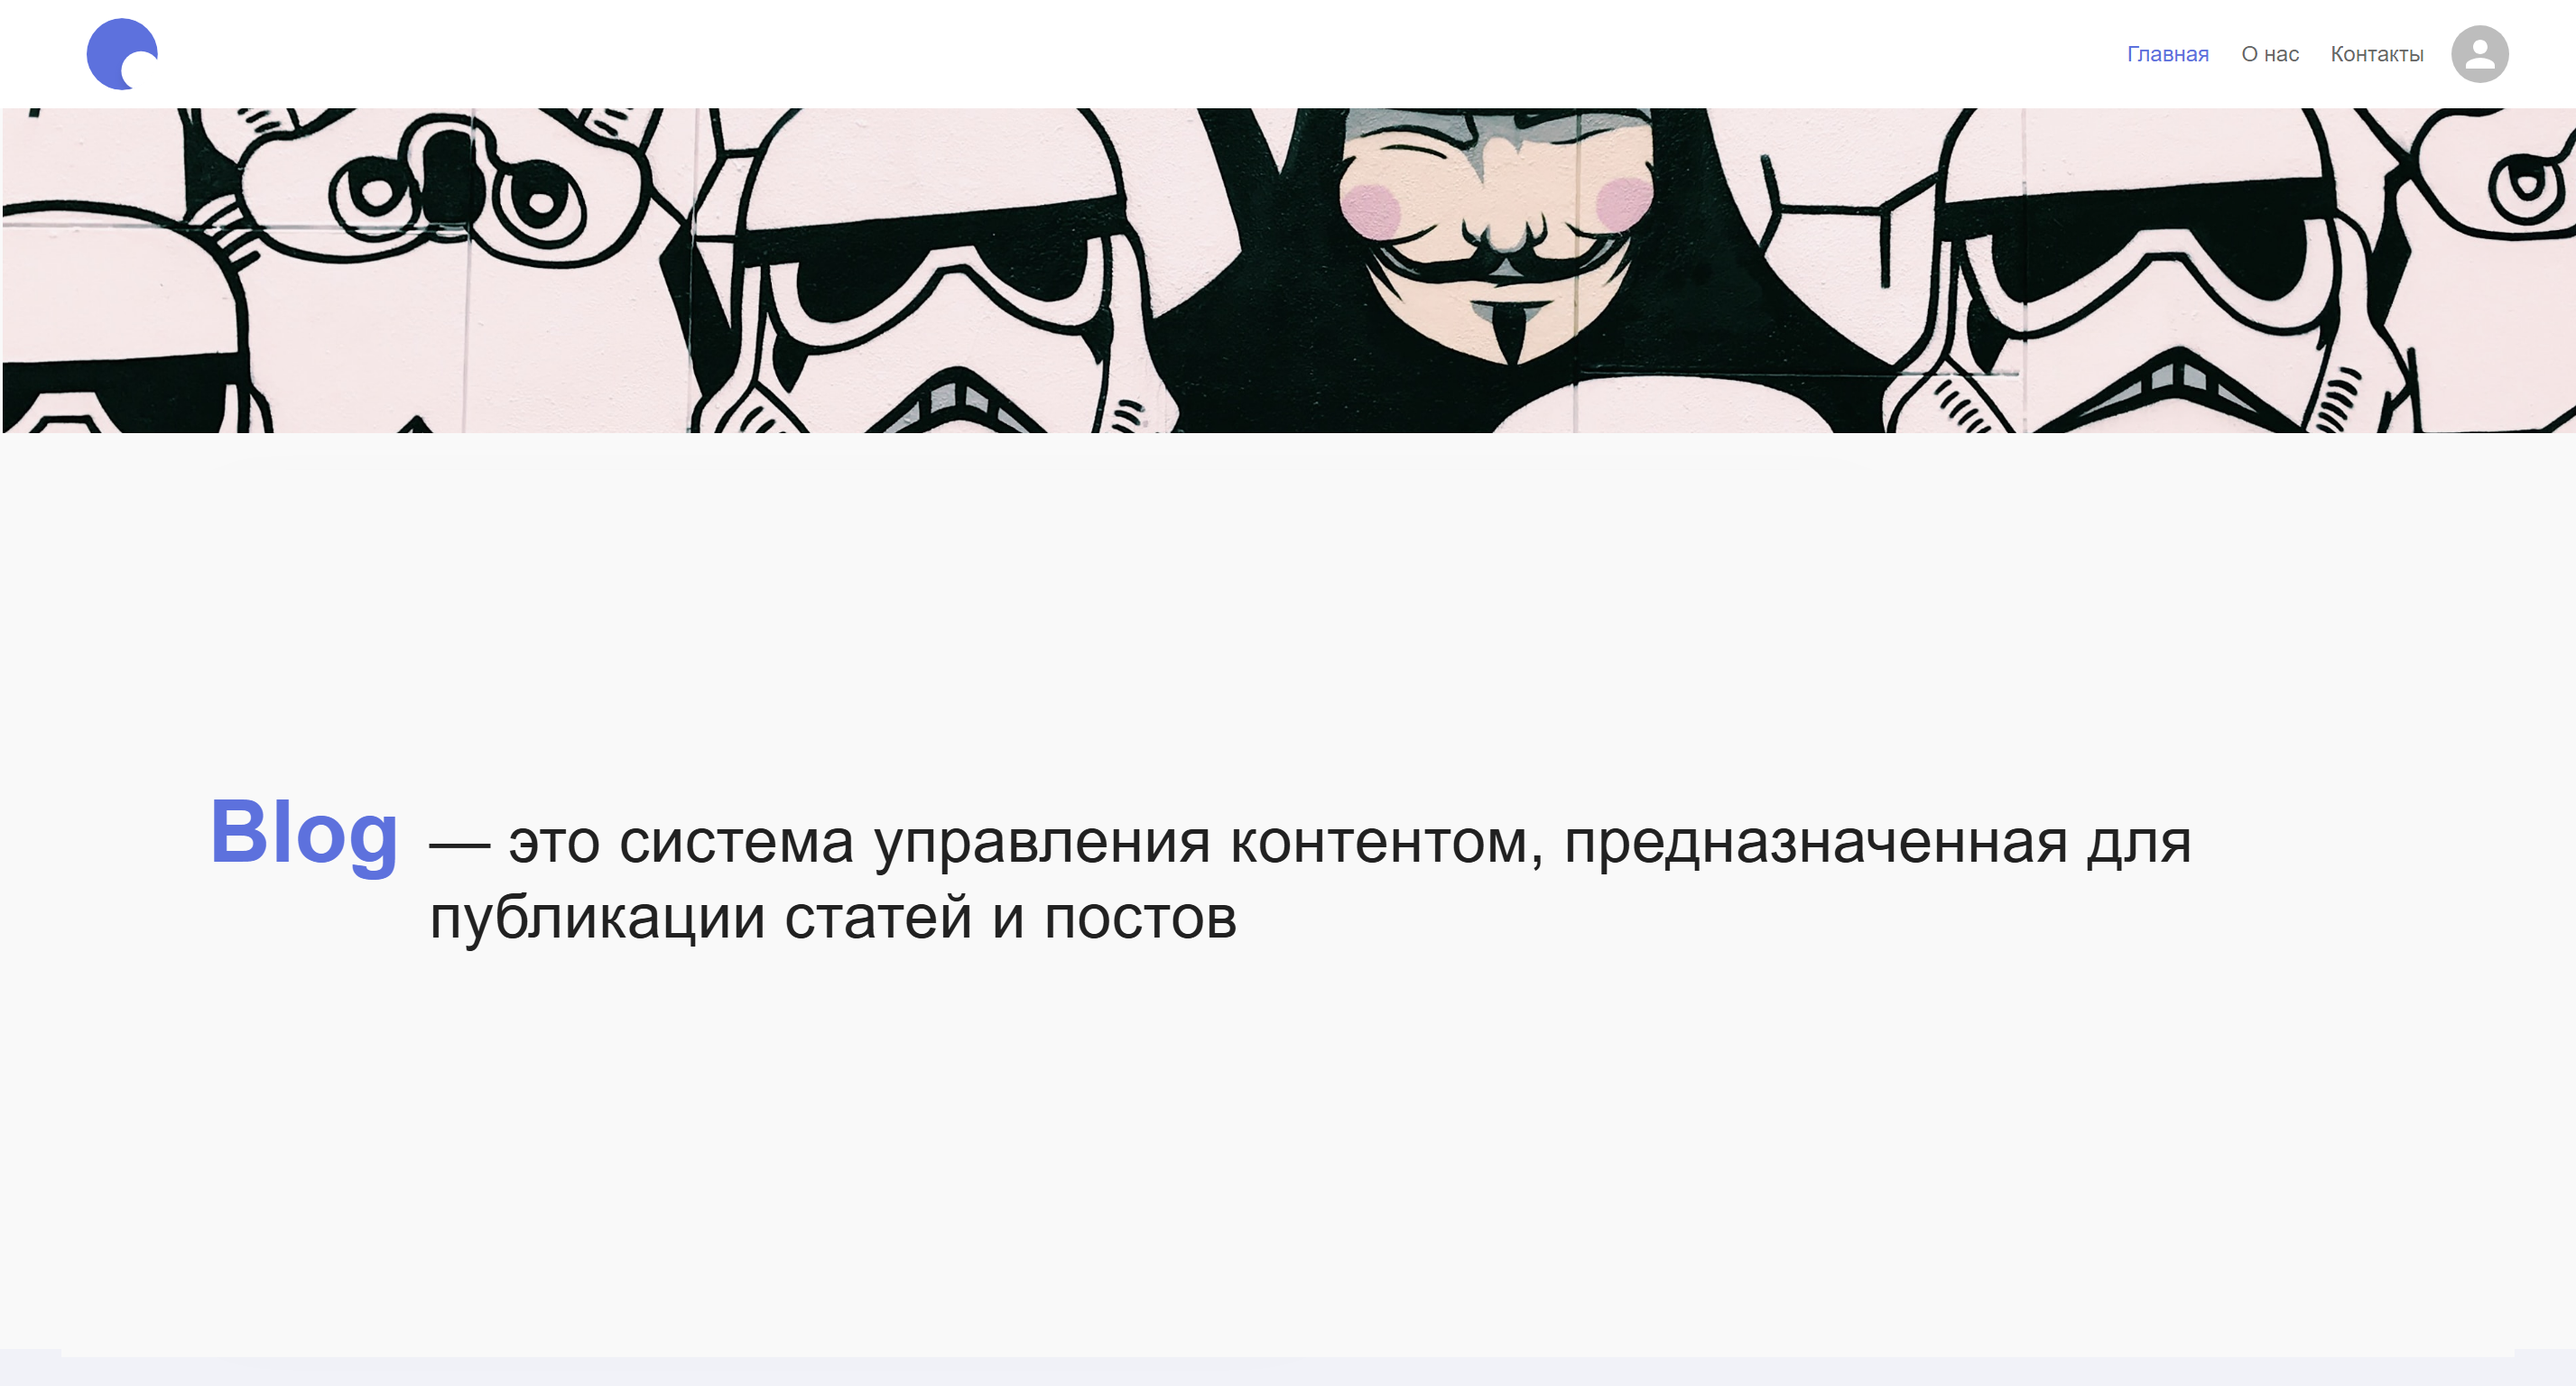
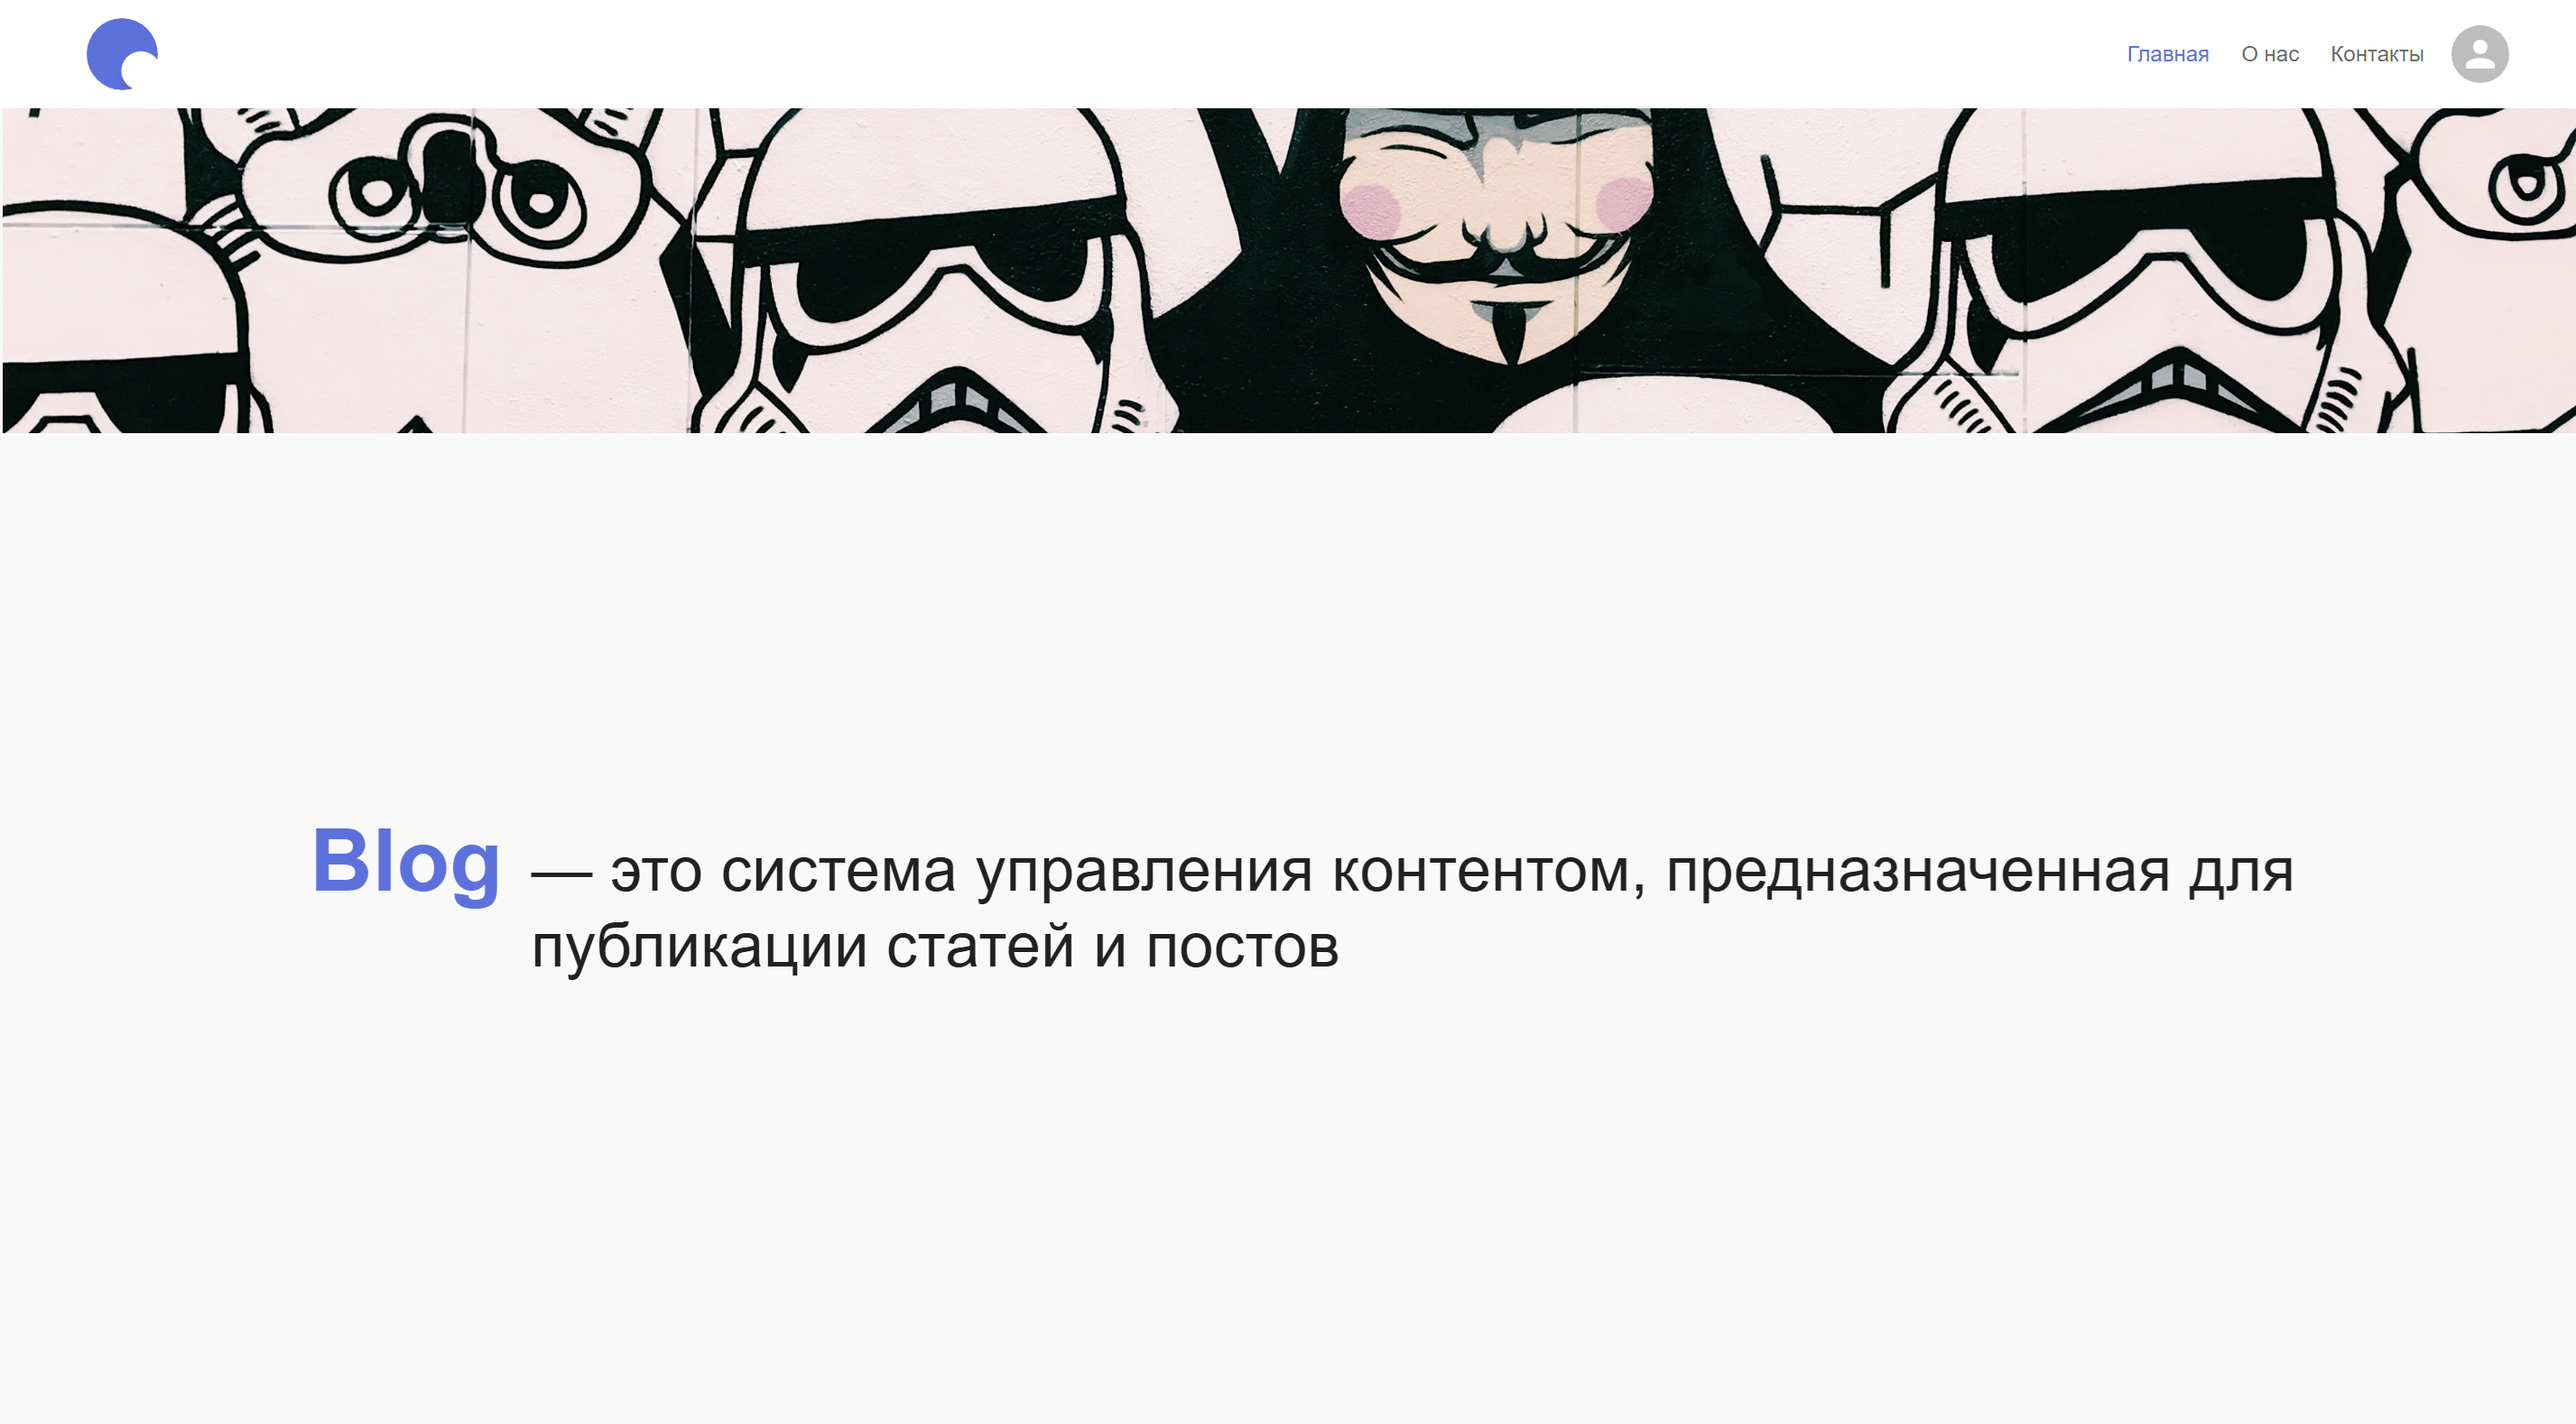
Обновление изображений

diff --git a/src/constants/projects.ts b/src/constants/projects.ts
@@ -11,9 +11,9 @@ export const mainApps: AppsKey[] = ["portfolio", "blog", "waterSeal"];
 export const completeApps: AppsKey[] = [
   "portfolio",
   "blog",
+  "waterSeal",
   "pizza",
   "cinema",
-  "waterSeal",
 ];
 
 export const apps: Record<AppsKey, AppsContent> = {

diff --git a/src/shared/Project/Project.module.scss b/src/shared/Project/Project.module.scss
@@ -8,7 +8,7 @@
   border-bottom: 1px solid var(--secondary-color);
   width: 100%;
   @include xxl {
-    max-height: 210px;
+    max-height: unset;
   }
   @include xl {
     max-height: 195px;
